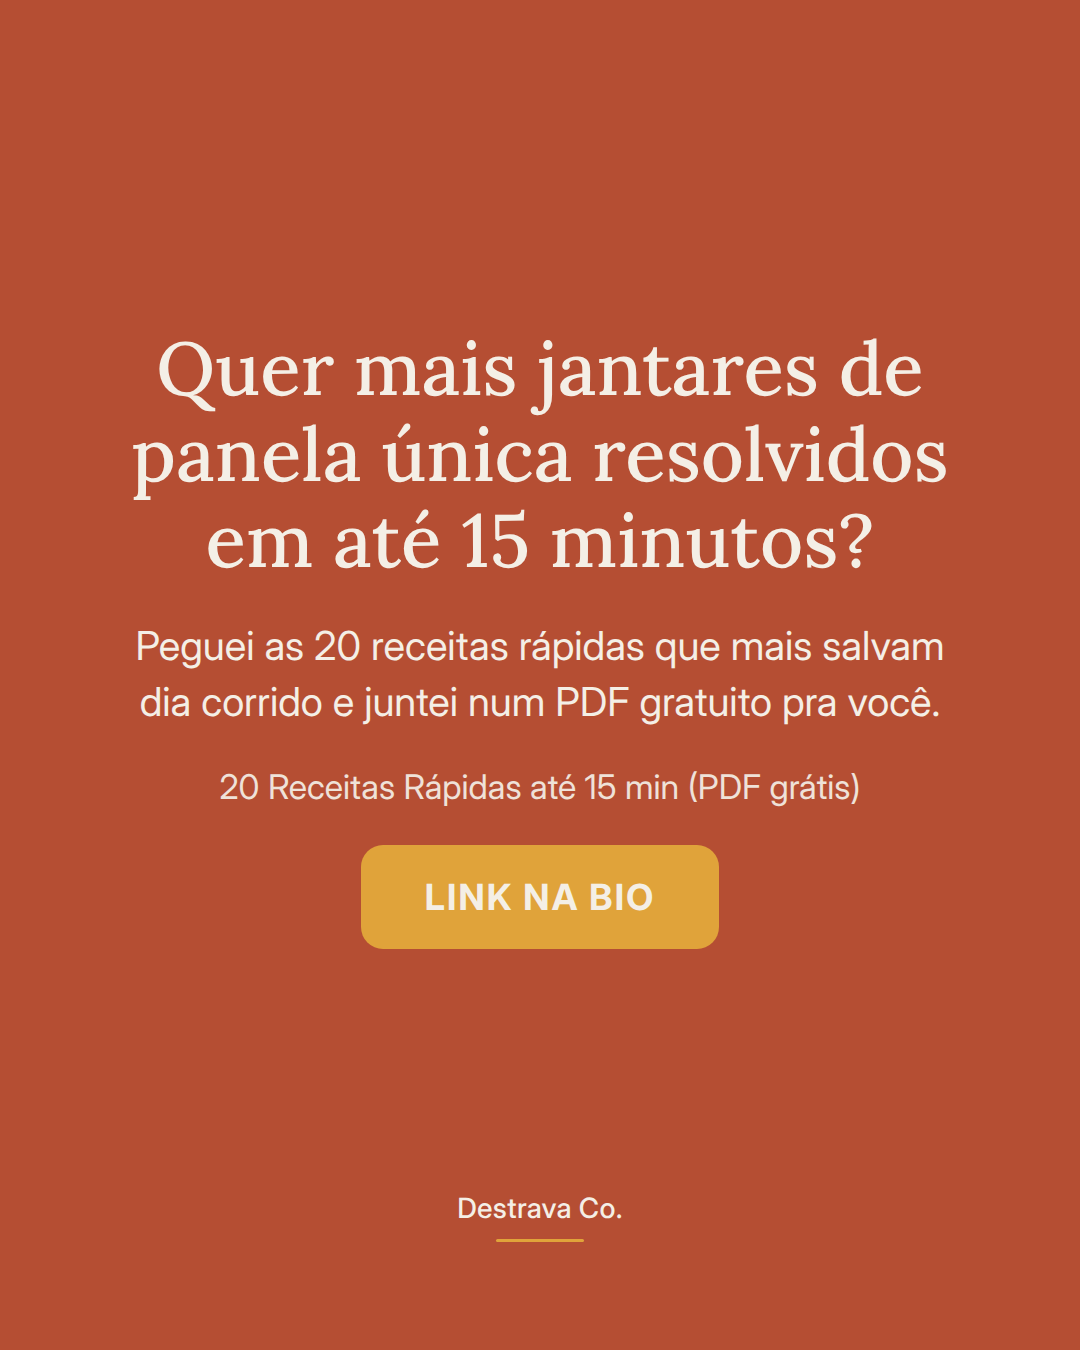
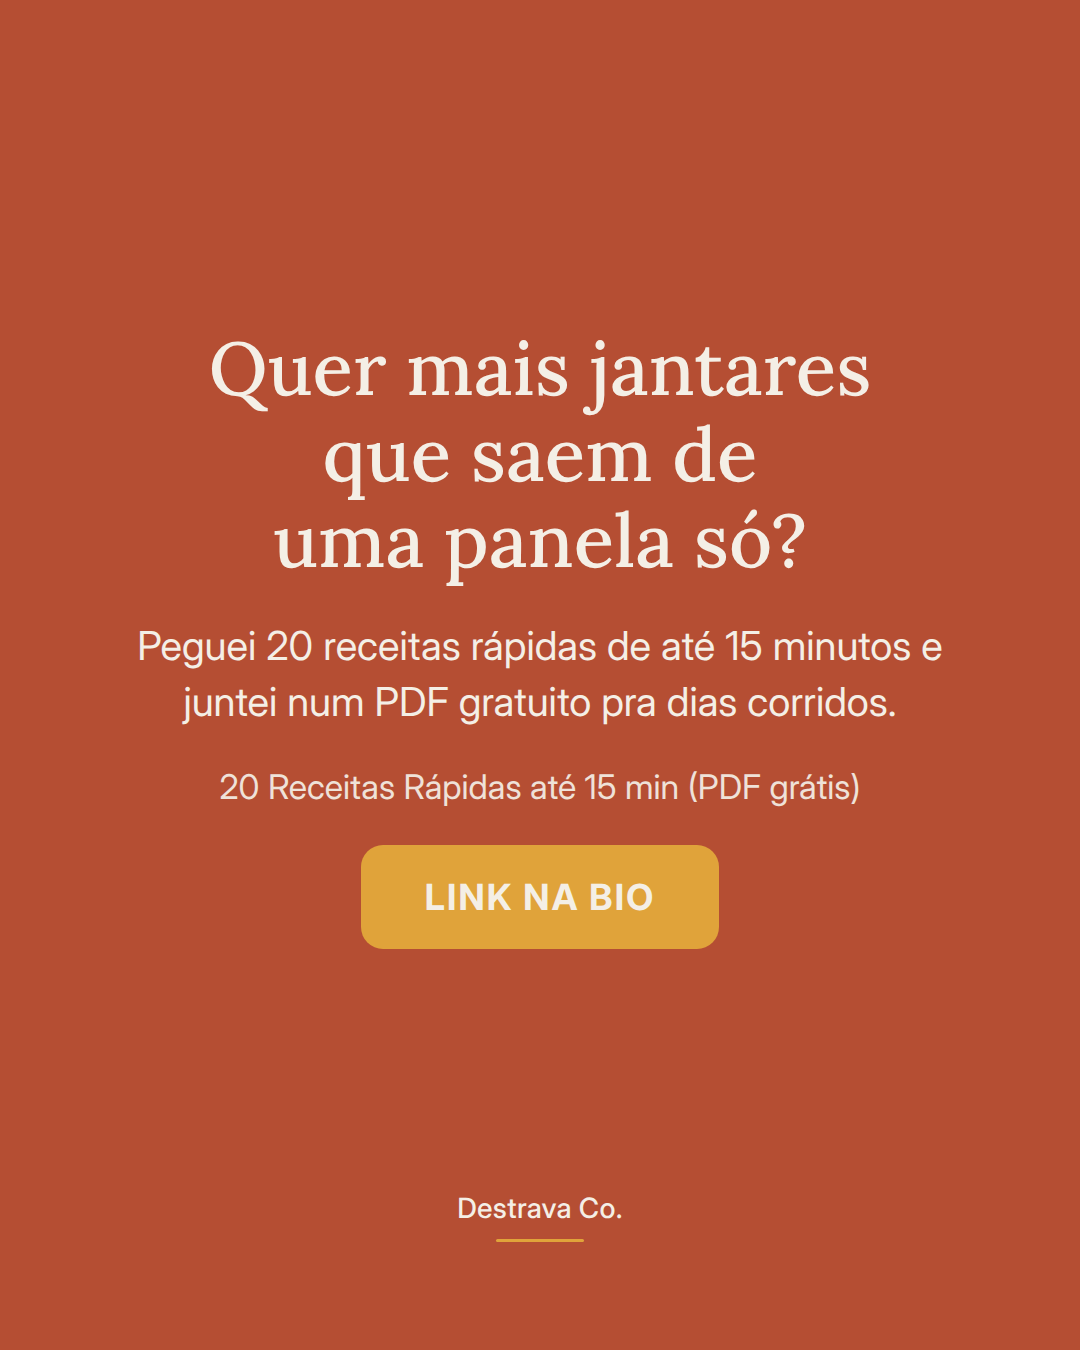
content: peças Instagram 2026_10_26

Changed region(s): [[0.1222, 0.2489, 0.8861, 0.4356], [0.1222, 0.4667, 0.8861, 0.56]]

diff --git a/public/content/2026_10_26/index.html b/public/content/2026_10_26/index.html
@@ -19,24 +19,22 @@
 </head>
 <body>
 <h1>Cozinha · capa B (wash2)</h1>
-<div class="meta">2026-10-26 · gerado em 2026-10-26T10:02:04 · sticker sugerido nos Stories: quiz</div>
+<div class="meta">2026-10-26 · gerado em 2026-10-26T20:22:01 · sticker sugerido nos Stories: quiz</div>
 <h2>Carrossel</h2>
-<div class="strip"><img src="2026_10_26_-_Carrossel_Cozinha_01.png" alt="Lâmina de capa com foto de frigideira sendo raspada com colher de pau e fundo wash2, com o título dizendo que o grudadinho do fundo da panela é molho pronto." title="2026_10_26_-_Carrossel_Cozinha_01.png"><img src="2026_10_26_-_Carrossel_Cozinha_02.png" alt="Lâmina de miolo em fundo wash1 bem claro explicando que o marrom no fundo da panela é sabor concentrado e vira molho." title="2026_10_26_-_Carrossel_Cozinha_02.png"><img src="2026_10_26_-_Carrossel_Cozinha_03.png" alt="Lâmina de miolo em fundo wash1 com lista de três passos para soltar o fundo da panela e transformar em molho." title="2026_10_26_-_Carrossel_Cozinha_03.png"><img src="2026_10_26_-_Carrossel_Cozinha_04.png" alt="Lâmina de miolo em fundo wash1 com três sugestões de líquidos para deglaçar a panela." title="2026_10_26_-_Carrossel_Cozinha_04.png"><img src="2026_10_26_-_Carrossel_Cozinha_05.png" alt="Lâmina final com fundo campo profundo, texto creme convidando a baixar o PDF de receitas rápidas e botão em cor de acento." title="2026_10_26_-_Carrossel_Cozinha_05.png"></div>
+<div class="strip"><img src="2026_10_26_-_Carrossel_Cozinha_01.png" alt="Fundo wash2 da linha com foto de uma panela larga com massa no molho e o título em campo dizendo que a massa cozinha dentro do molho." title="2026_10_26_-_Carrossel_Cozinha_01.png"><img src="2026_10_26_-_Carrossel_Cozinha_02.png" alt="Fundo wash1 bem claro com o título A conta da água no campo profundo e a medida de água por porção de massa." title="2026_10_26_-_Carrossel_Cozinha_02.png"><img src="2026_10_26_-_Carrossel_Cozinha_03.png" alt="Fundo wash1 bem claro com o título A ordem dentro da panela e três passos curtos de preparo." title="2026_10_26_-_Carrossel_Cozinha_03.png"><img src="2026_10_26_-_Carrossel_Cozinha_04.png" alt="Fundo wash1 bem claro com o título O ponto final e duas correções rápidas para o molho." title="2026_10_26_-_Carrossel_Cozinha_04.png"><img src="2026_10_26_-_Carrossel_Cozinha_05.png" alt="Fundo campo profundo com texto creme convidando a baixar o PDF de 20 receitas rápidas e botão no tom de acento." title="2026_10_26_-_Carrossel_Cozinha_05.png"></div>
 <h2>Stories</h2>
-<div class="strip"><img class="story" src="2026_10_26_-_Stories_Cozinha_01.png" alt="Story com fundo wash2 da linha, título em campo sobre molho feito no fundo da panela e convite para ver o post no feed." title="2026_10_26_-_Stories_Cozinha_01.png"><img class="story" src="2026_10_26_-_Stories_Cozinha_02.png" alt="Stories em fundo terracota com convite ao e-book gratuito de 20 receitas rápidas e o endereço da página em destaque no chip mostarda." title="2026_10_26_-_Stories_Cozinha_02.png"></div>
+<div class="strip"><img class="story" src="2026_10_26_-_Stories_Cozinha_01.png" alt="Fundo wash2 da linha com o título em campo sobre massa cozida no próprio molho e convite para ver no feed." title="2026_10_26_-_Stories_Cozinha_01.png"><img class="story" src="2026_10_26_-_Stories_Cozinha_02.png" alt="Stories em fundo terracota com convite ao e-book gratuito de 20 receitas rápidas e o endereço da página em destaque no chip mostarda." title="2026_10_26_-_Stories_Cozinha_02.png"></div>
 <div class="meta">1º · stories post do dia · <a href="2026_10_26_-_Stories_Cozinha_01.png" download="2026_10_26_-_Stories_Cozinha_01.png">⬇ baixar</a> · sticker de link → post do dia (permalink em publicado.json depois de publicar) · sticker extra sugerido: quiz</div><div class="meta">2º · stories oferta · <a href="2026_10_26_-_Stories_Cozinha_02.png" download="2026_10_26_-_Stories_Cozinha_02.png">⬇ baixar</a> · sticker de link → <a href="https://lp.destravaco.com.br/receitas-15min">https://lp.destravaco.com.br/receitas-15min</a></div>
 <div class="meta">Stories não vão pela API: baixe e poste no app colando o sticker de link.</div>
 <h2>Legenda</h2>
-<pre>Molho de jantar sai do fundo da panela, não do pacote.
+<pre>Massa cozida dentro do próprio molho: uma panela só, água medida e o jantar pronto em quinze minutos.
 
-Depois de dourar frango, carne ou até cogumelo, fica aquele grudadinho marrom na frigideira. Ele é sabor puro, e não precisa de nada além de um líquido e trinta segundos.
+A regra é simples: 300 ml de água ou caldo para cada 100 g de massa curta. Tudo entra junto, massa crua inclusive, e o amido que sai dela engrossa o molho sem precisar de nada a mais.
 
-Tira a proteína, mantém a panela no fogo médio e joga meia xícara de água do cozimento, caldo ou shoyu diluído. Raspa o fundo com colher de pau enquanto o líquido ferve e reduz. Pronto, molho feito na mesma panela que você já ia lavar.
+Menos louça, menos escorredor, menos panela ocupando boca do fogão. E o molho fica agarradinho na massa, não escorrendo no fundo do prato.
 
-Funciona no arroz de ontem, no macarrão, no purê e em qualquer legume assado que precisava de um empurrão.
+Salva pra testar no jantar desta semana e manda pra quem sempre chega em casa com fome e sem paciência. Se quiser mais ideias assim, o PDF com 20 receitas rápidas de até 15 minutos está te esperando por aqui.
 
-Salva pra lembrar na próxima vez que for dourar algo, e manda pra quem sempre reclama que o jantar fica sem graça. Se quiser mais jantares resolvidos em até 15 minutos, o PDF com 20 receitas rápidas está liberado de graça.
-
-<span class="tags">#receitasrapidas #jantarpratico #cozinhapratica #comidadeverdade #praticidadenacozinha</span></pre>
+<span class="tags">#receitasrapidas #jantarpratico #cozinhapratica #receitasfaceis #comidadeverdade</span></pre>
 </body>
 </html>
